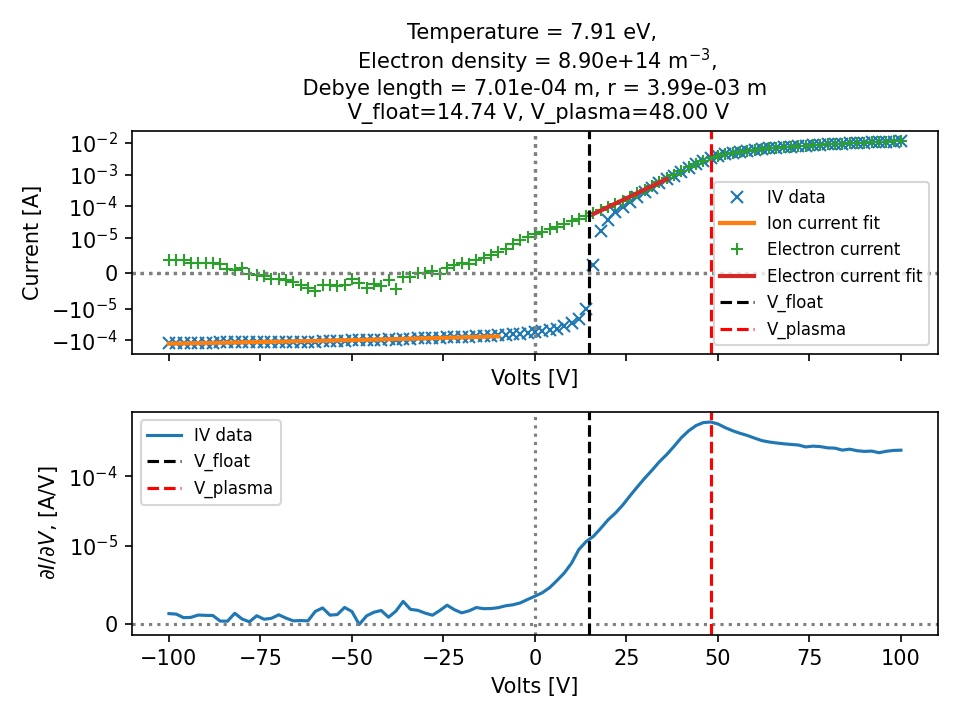
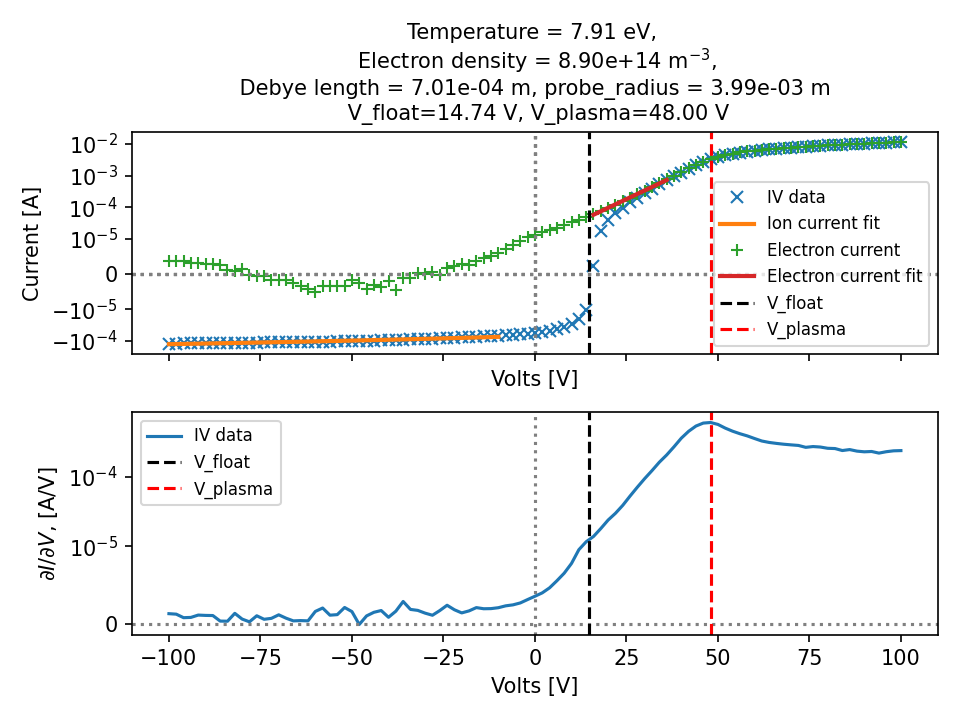
Minor update to the title.

diff --git a/lagmuir_probe_analysis.py b/lagmuir_probe_analysis.py
@@ -493,7 +493,7 @@ def IV_sweep_analysis(	IV,
 			a.legend(fontsize=8)
 			a.set_xlabel('Volts [V]')
 		
-		title_all = 'Temperature = %.2f eV, \n Electron density = %.2e %s, \n Debye length = %.2e m, r = %.2e m \n V_float=%.2f V, V_plasma=%.2f V' % (temperature_in_eV, n_e, r'm$^{-3}$', debye, radius, V_float, V_plasma)
+		title_all = 'Temperature = %.2f eV, \n Electron density = %.2e %s, \n Debye length = %.2e m, probe_radius = %.2e m \n V_float=%.2f V, V_plasma=%.2f V' % (temperature_in_eV, n_e, r'm$^{-3}$', debye, radius, V_float, V_plasma)
 		ax[0].set_title(title_all, fontsize=10)
 		fig.set_tight_layout(True)
 		
